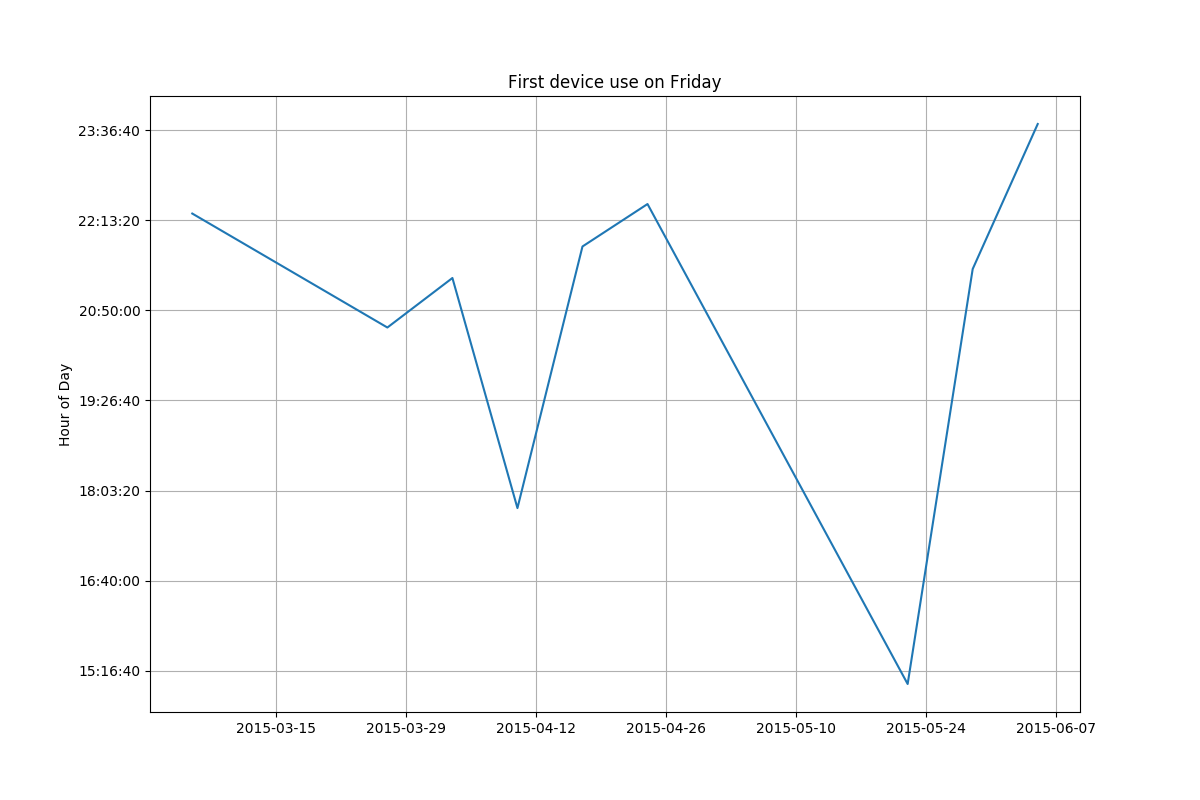
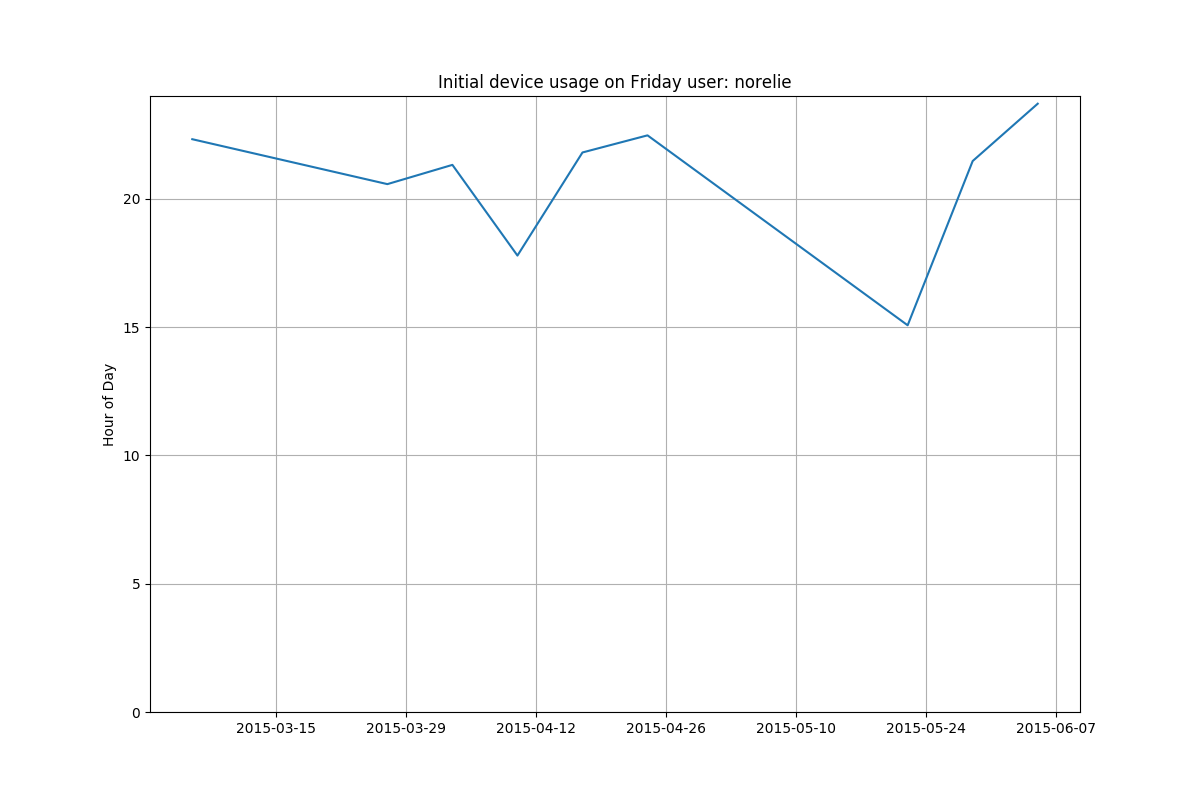
hour of day on correct scale

diff --git a/location_user_analysis.py b/location_user_analysis.py
@@ -152,9 +152,9 @@ def plot_info (info_week, weekday, key_beg_end, user):
     cont = 0
     for timst in info_week[weekday]:
         df_col['date'].append(timst.date())
-        df_col['time'].append(timst.time())
-        #print (timst.date())
-        #print (timst.time())
+        #df_col['time'].append(timst.time())
+        df_col['time'].append(timst.hour+timst.minute/60.0) 
+       
 
     x = np.arange(len(info_week))
 
@@ -164,8 +164,11 @@ def plot_info (info_week, weekday, key_beg_end, user):
     #plt.xticks(df_col['date'], rotation=45)
     #plt.plot(df_col['date'], df_col['time'])
     
+    #y[].append(ts.hour+ts.minute/60.0)
+
     fig, ax = plt.subplots(1, 1, figsize=(12, 8))
-    ax.set_title('First device use on ' +  weekday)#, user.username)
+    ax.set_title('Initial device usage on ' +  weekday + ' user: ' +  user.username)
+    ax.set_ylim([0,24])
     ax.set_ylabel('Hour of Day') 
     ax.grid(True)
     ax.plot(df_col['date'], df_col['time'])
